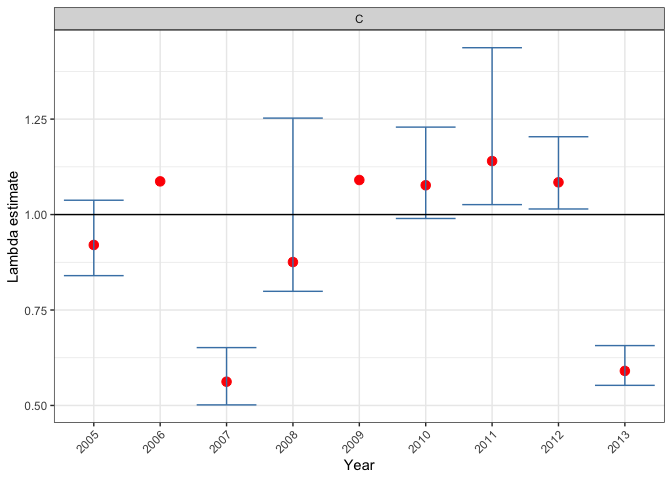
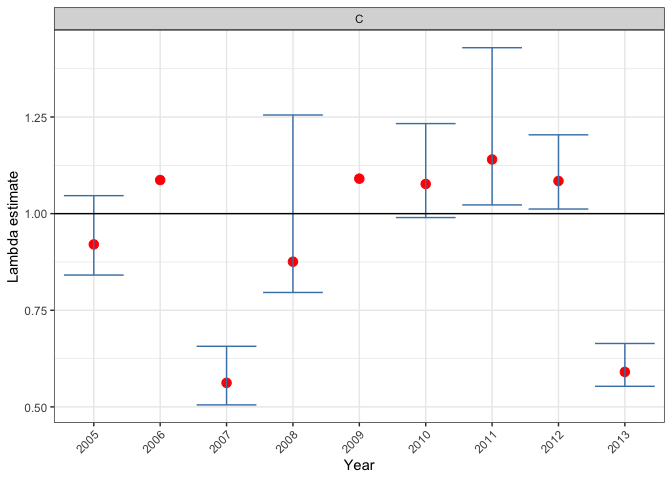
update readme

diff --git a/README.md b/README.md
@@ -7,12 +7,13 @@
 
 [![R-CMD-check](https://github.com/poissonconsulting/bbouretro/actions/workflows/R-CMD-check.yaml/badge.svg)](https://github.com/poissonconsulting/bbouretro/actions/workflows/R-CMD-check.yaml)
 [![Codecov test
-coverage](https://codecov.io/gh/poissonconsulting/bbouretro/branch/main/graph/badge.svg)](https://app.codecov.io/gh/poissonconsulting/bbouretro?branch=main)
+coverage](https://codecov.io/gh/poissonconsulting/bbouretro/branch/main/graph/badge.svg?token=y99t6ttYNS)](https://app.codecov.io/gh/poissonconsulting/bbouretro?branch=main)
 <!-- badges: end -->
 
 ## Introduction
 
-The goal of bbouretro is to …
+The goal of bbouretro is to provide the ability to calculate survival,
+recruitment and population growth using the classical methods.
 
 ## Installation
 
@@ -33,12 +34,11 @@ pak::pak("poissonconsulting/bbouretro")
 
 ## Example
 
-This is a basic example which shows you how to solve a common problem:
-
 ``` r
 library(bbouretro)
 library(bboudata)
 
+# generate recruitment estimate for each year
 recruitment_est <- 
   bbr_recruitment(
     bbourecruit_c, 
@@ -53,6 +53,7 @@ bbr_plot_recruitment(recruitment_est)
 
 ``` r
 
+# generate survival estimate for each year
 survival_est <- 
   bbr_km_survival(
     bbousurv_c,
@@ -66,21 +67,22 @@ bbr_plot_survival(survival_est)
 
 ``` r
 
+# calculate lambda now that both recruitment and survival have been calculated
 lambda_est <- bbr_lambda_sim(recruitment_est, survival_est)
 summary <- bbr_summarize_lambda(lambda_est)
 summary
 #> # A tibble: 9 × 13
 #>   PopulationName  Year     S     R Lambda SE_Lambda Lambda_LCL Lambda_UCL
 #>   <chr>          <int> <dbl> <dbl>  <dbl>     <dbl>      <dbl>      <dbl>
-#> 1 C               2005 0.832 0.096  0.92      0.051      0.84       1.04 
+#> 1 C               2005 0.832 0.096  0.92      0.052      0.841      1.05 
 #> 2 C               2006 1     0.08   1.09     NA         NA         NA    
-#> 3 C               2007 0.524 0.068  0.562     0.037      0.502      0.652
-#> 4 C               2008 0.824 0.059  0.876     0.123      0.799      1.25 
+#> 3 C               2007 0.524 0.068  0.562     0.039      0.505      0.657
+#> 4 C               2008 0.824 0.059  0.876     0.121      0.796      1.25 
 #> 5 C               2009 1     0.083  1.09     NA         NA         NA    
-#> 6 C               2010 0.926 0.14   1.08      0.065      0.99       1.23 
-#> 7 C               2011 0.96  0.158  1.14      0.107      1.03       1.44 
-#> 8 C               2012 0.963 0.112  1.08      0.054      1.01       1.20 
-#> 9 C               2013 0.512 0.133  0.591     0.027      0.553      0.657
+#> 6 C               2010 0.926 0.14   1.08      0.062      0.99       1.23 
+#> 7 C               2011 0.96  0.158  1.14      0.107      1.02       1.43 
+#> 8 C               2012 0.963 0.112  1.08      0.049      1.01       1.20 
+#> 9 C               2013 0.512 0.133  0.591     0.029      0.553      0.664
 #> # ℹ 5 more variables: Prop_LGT1 <dbl>, meanSimSurv <dbl>, meanRsim <dbl>,
 #> #   meanSimLambda <dbl>, medianSimLambda <dbl>
 bbr_plot_lambda(lambda_est)
